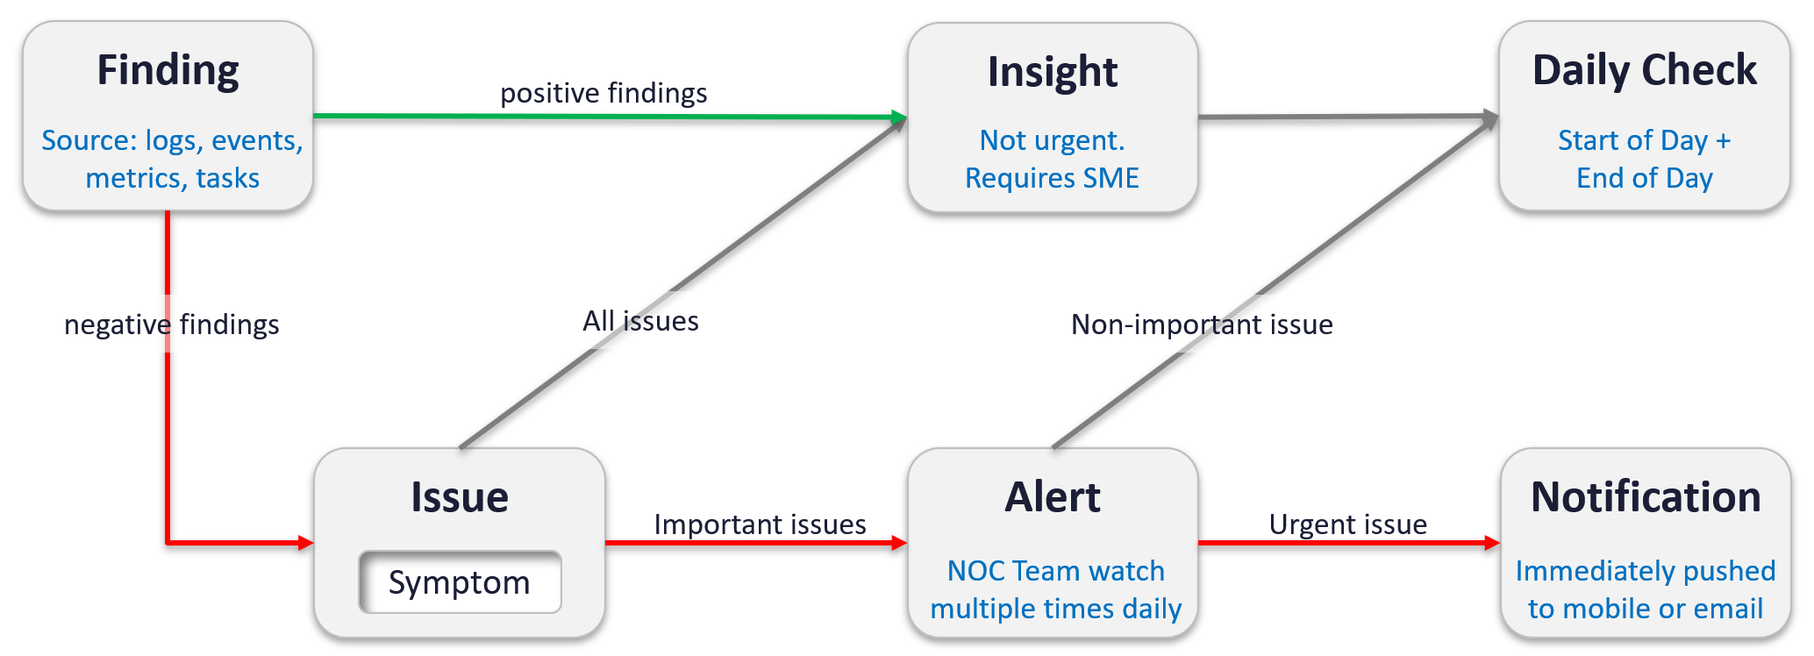
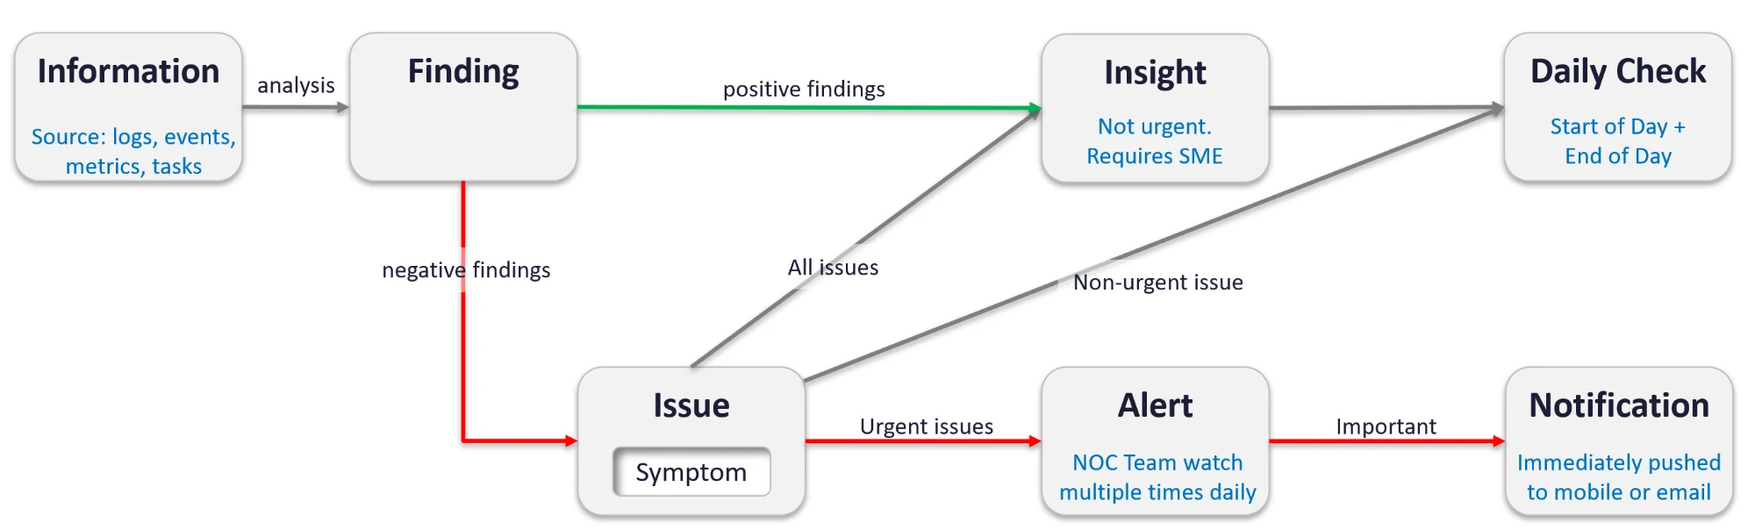
Apply Q103 and Q133; merge duplicate glossary rows
Q103: an alert is an urgent issue, only the important alert is pushed
to the admin's phone, and an issue is a negative finding with one or
more symptoms; the author's corrected diagram replaces the old one.
Q133: health checks run availability, performance, security, capacity,
with configuration as the drill-down under all four and no vSphere-only
fallback; triage becomes an alias of troubleshooting. The glossary had
seven terms twice; each now has one row, aliases in Also called, and the
harness reads those aliases too.

Claude-Session: https://claude.ai/code/session_01JZFwApUFw7444dpvawSydh

diff --git a/harness/retrieval.py b/harness/retrieval.py
@@ -49,6 +49,16 @@ def glossary_terms(docs):
     if not g:
         return out
     for head, text in g.sections:
+        if head.startswith('Defined terms'):
+            for line in text.split('\n'):
+                cells = [c.strip() for c in line.strip().strip('|').split('|')]
+                if len(cells) < 3 or set(cells[0]) <= set('-: ') or cells[0] == 'Term':
+                    continue
+                preferred = re.sub(r'\(.*?\)', '', cells[0]).strip()
+                for a in cells[2].split(','):
+                    a = re.sub(r'\(.*?\)', '', a).strip()
+                    if len(a) > 2 and a != '-':
+                        out.append((a, preferred))
         if head.startswith('Synonyms') or head.startswith('Words to avoid'):
             for line in text.split('\n'):
                 cells = [c.strip() for c in line.strip().strip('|').split('|')]

diff --git a/knowledge/glossary.md b/knowledge/glossary.md
@@ -10,15 +10,11 @@ What Agent E2 needs to read the user's words and answer in one consistent vocabu
 | VM pages | guest physical pages, guest physical memory | Pages in the VM address space. Vendor term kept for search. |
 | ESXi pages | machine pages, machine memory | Pages ESXi manages on DIMM, host cache or tiered NVMe. |
 | Guest OS sizing | VM rightsizing (inside the guest) | Sized from Guest OS counters. The external view is VM footprint. |
-| Usage Disparity | vCPU imbalance | Spread of usage across the vCPUs of one VM. |
-| Troubleshooting | diagnosis, diagnose, root cause analysis (the process) | The why, after an object fails a health check. |
-| Health check | what to monitor, monitoring checklist, verification, daily check | The what: is the object healthy, at risk, or wasteful. |
 
 ## Defined terms
 | Term | Meaning | Also called |
 |---|---|---|
 | Virtual motherboard | What a VM is: vCPU, memory, virtual disks and vNICs that run a Guest OS. The Guest OS is not part of it. | VM |
-| KPI | Key performance indicator; performance only. One metric for the performance of one object. `sp5-framework/performance/kpi-vs-sla` | - |
 | KAI, KCI | Key availability indicator, key compliance indicator. Not called KPI. | - |
 | SLI | SLA leading indicator: pass or fail every 5 minutes; the SLA is its mean over the calendar month. Not service level indicator. | - |
 | Security SLA | Preferred over compliance SLA, which is correct but narrower: security also covers activity, not only settings. | Compliance SLA |
@@ -27,7 +23,6 @@ What Agent E2 needs to read the user's words and answer in one consistent vocabu
 | Usable capacity | Total capacity minus HA, buffer and hypervisor overhead. A capacity term only. | - |
 | Value (pillar) | One of the five SP5 pillars. Keeps apart cost (what IT spends on infrastructure), price (what IT charges a tenant) and business value (what the investment returns). Formerly cost management. `sp5-framework/concepts/overview` | Cost and price |
 | Green zone | The change window: the agreed time when approved changes, deployments and patches may enter production. Downtime inside it is excluded from Operational Availability. `sp5-framework/concepts/sla-metrics` | Change window, maintenance window, authorized execution window |
-| Crown jewels | The critical business applications, strategic to the core business; each gets a KPI at the infrastructure layer. `sp5-framework/performance/business-application-kpi` | Mission-critical applications |
 | Triple See Method | The author's method for VCF: read contention, consumption and context metrics as one set before concluding. Not USE, RED or Golden Signals. `sp5-framework/concepts/triple-see-method` | Triple See |
 | Closed cluster | A cluster that accepts no new VM and no VM upsize, decided from Capacity Remaining, Performance (%) and Risk (%). `sp5-framework/capacity/health-check/can-cluster-take-more-vms` | Stop provisioning |
 | vSphere World | VCF Operations object above all vCenter Server instances. | - |
@@ -50,7 +45,7 @@ What Agent E2 needs to read the user's words and answer in one consistent vocabu
 | Other Wait | Wait not caused by idle or swap: disk IO, network IO, vMotion, snapshots. | VM Wait |
 | Net Run | VCF Operations metric: Run - Overlap. | - |
 | Contention (VCF Operations) | Overlap + Co-stop + Ready + Other Wait. Before July 2024: mapped to CPU Latency. | - |
-| Usage Disparity | Spread of usage across the vCPUs of one VM. | Imbalance vCPU Usage (avoid) |
+| Usage Disparity | Spread of usage across the vCPUs of one VM. | vCPU imbalance, Imbalance vCPU Usage (avoid) |
 | MKS, VMX, Helper | VM worlds charged to VM-level Used: console, VM management and emulation, IO helpers. | - |
 | Thread Utilization | ESXi Utilization (%) read per physical thread. Binary per moment. | Utilization (%) |
 | Core Utilization | 100% when 1 or 2 threads of a core run. | - |
@@ -59,8 +54,6 @@ What Agent E2 needs to read the user's words and answer in one consistent vocabu
 | ESXi CPU Imbalance | Running threads / running cores. | Imbalance Score |
 | Consumed CPU (%) | Host list column in vSphere Client. Maps to Usage (%). | - |
 | CPU Utilization for Resources | 17 legacy rescpu.* metrics. Avoid. | rescpu |
-| VM pages | Pages in the VM address space. Vendor term: guest physical pages. | - |
-| ESXi pages | Pages ESXi manages on DIMM, host cache or tiered NVMe. Vendor term: machine pages. | - |
 | Page-fault latency | VM memory Latency (%), esxtop %LAT_M. VCF Operations: VM Memory Contention. | Memory Latency |
 | Granted | VM pages with ESXi pages mapped. VM view. | - |
 | Entitlement (memory) | Granted + Overhead. | - |
@@ -74,7 +67,7 @@ What Agent E2 needs to read the user's words and answer in one consistent vocabu
 | Leading indicator, lagging indicator | Leading: underlying metric read in insights. Lagging: customer-facing metric used in alerts. | - |
 | Operational Availability (%) | Availability relative to the availability architecture. | - |
 | Actual Availability (%) | Availability as it happened. Usually lower than Operational Availability. | - |
-| Crown jewels | Mission-critical business applications: few VMs, essential to revenue, profit or image. | Mission-critical applications |
+| Crown jewels | The critical business applications, strategic to the core business: few VMs, essential to revenue, profit or image. Each gets a KPI at the infrastructure layer. `sp5-framework/performance/business-application-kpi` | Mission-critical applications |
 | Slow time | Time a VM spends above the Performance SLA threshold; the performance counterpart of downtime. `sp5-framework/concepts/sla-metrics` | - |
 | Finding | Result of troubleshooting or analysis from logs, events, metrics, tasks. Positive feeds insight; negative is an issue. | - |
 | Issue | A negative finding, identified by one or more symptoms. | - |
@@ -84,9 +77,9 @@ What Agent E2 needs to read the user's words and answer in one consistent vocabu
 | Primary metric, secondary metric | Primary: 0-100%, defines performance (the what). Secondary: explains the primary (the why). | - |
 | Framework | How IT operations are managed: policy, pillars, process, people, platform. The SP5 framework; ITIL and COBIT are other frameworks. `sp5-framework/concepts/overview` | - |
 | Model | How one pillar of one object is quantified into a number and a decision. Capacity model, availability model, security model. Example: Cluster Consumption and Cluster Risk decide, with Cluster Performance, whether a cluster is closed. `vsphere/object-types/cluster/models/cluster-consumption` | - |
-| KPI | A model of performance only: the P in KPI. One 0-100% score per object. VM, Guest OS, ESXi and Cluster Performance. `vsphere/object-types/esxi/kpis/esxi-performance` | Key Performance Indicator |
-| Health check | Check of one object, in the order present health, risk, efficiency. The what. A failed step opens a troubleshooting flow. `vsphere/object-types/cluster/health-check/cluster-health-check` | - |
-| Troubleshooting | Finding why an object failed a health check, and the fix. Always after the health check, never instead of it. A user complaint is a failed health check. `sp5-framework/concepts/monitoring-vs-troubleshooting` | - |
+| KPI | Key performance indicator: a model of performance only, the P in KPI. One 0-100% score per object: VM, Guest OS, ESXi and Cluster Performance. `sp5-framework/performance/kpi-vs-sla` | Key Performance Indicator |
+| Health check | Check of one object, in the order availability, performance, security, capacity, with configuration as the drill-down. The what: is the object healthy, at risk, or wasteful. A failed step opens a troubleshooting flow. `vsphere/object-types/cluster/health-check/cluster-health-check` | what to monitor, monitoring checklist, verification, daily check |
+| Troubleshooting | Finding why an object failed a health check, and the fix. Always after the health check, never instead of it. A user complaint is a failed health check. Each order of checks is a flow. `sp5-framework/concepts/monitoring-vs-troubleshooting` | diagnosis, diagnose, root cause analysis, triage |
 
 ## Confusable pairs
 Pairs that public text mixes up. Each row points to the file that holds the mechanism.
@@ -136,6 +129,7 @@ source:
   path: "n/a. Section 'Term distinctions' and the Physical CPU synonym from PART 3 - Counters.docx, The World of Metrics > Metrics Nuances > Complexity > Naming Complexity"
 corrections: []
 review_notes:
+  - "2026-11-09: duplicate rows merged, one row per term (Usage Disparity, VM pages, ESXi pages, KPI, Crown jewels, Health check, Troubleshooting); aliases in Also called; triage added as an alias of troubleshooting (author, Q133 c)."
   - "2026-11-08 (author decision): Framework, Model, KPI, Health check and Troubleshooting defined; diagnosis and what to monitor replaced. Confusable pair Health check (Kubernetes probe): Claude's knowledge."
   - "2026-11-07: Confusable pair Consistency vs compatibility check added from Part 1, Configuration Management. Proposal."
   - "2026-11-07: Defined terms Slow time to Primary metric and the pairs Monitoring vs troubleshooting, Inventory vs configuration, Security vs compliance, Short-term vs long-term capacity added from Part 1, Your Private Cloud (Service Level Agreement to SP5 Framework: Process). Proposals; author to confirm. Present and future health grouping: Q102."

diff --git a/project/author-questions.md b/project/author-questions.md
@@ -231,16 +231,6 @@ Each entry has:
 - Written as now: table and grouping image; the other image's details used as text only.
 - Answer:
 
-### Q103 · Part 1 > SP5 Framework > Basic Terminology · Alert: urgent or important; symptom
-- Files: [Alerts, symptoms and insights: why alert-driven operations stay reactive](https://github.com/e1-rahabok/agent-e2/blob/main/knowledge/sp5-framework/concepts/alerts-and-insights.md) (sections Symptom, alert, insight; Finding, issue, alert, notification). Related: Q089.
-- Search 1: "It’s an urgent Issue with Symptom crossing threshold"
-- Search 2: "An issue is identified by its 1 or more Symptom"
-- Image text (not searchable): "Important issues" (Issue → Alert), "Urgent issue" (Alert → Notification), "Non-important issue" (Alert → Daily Check).
-- Question:
-  - (a) The table defines an alert as an urgent issue; the diagram routes important issues to alerts, then urgent ones to notification and non-important ones to the daily check. Is an alert defined by urgency, by importance, or by a symptom crossing a threshold (either)?
-  - (b) Symptom: here part of an issue (an issue has 1 or more symptoms); in Observability, a minor non-urgent issue that becomes an alert if it persists. One definition?
-- Written as now: both, flagged.
-- Answer:
 
 ### Q105 · Part 1 > Monitor | Troubleshoot; SP5 Framework: Process · Logs in monitoring and the length of the daily check
 - Files: [Monitoring vs troubleshooting, root cause analysis and validating a log alert](https://github.com/e1-rahabok/agent-e2/blob/main/knowledge/sp5-framework/concepts/monitoring-vs-troubleshooting.md); [Proactive operations: dual track, daily cadence, NOC screens and the VM life cycle](https://github.com/e1-rahabok/agent-e2/blob/main/knowledge/sp5-framework/concepts/proactive-operations.md).
@@ -463,12 +453,6 @@ Each entry has:
 - Written as now: both, each in its own file; the closure flow says the pack automates steps 4 and 5.
 - Answer:
 
-### Q133 · Health check · Decisions still open from the 2026-11-08 review
-- Files: [KNOWLEDGE-ENGINEERING.md](https://github.com/e1-rahabok/agent-e2/blob/main/KNOWLEDGE-ENGINEERING.md) (section 10); the three health checks.
-- Search: not from the book.
-- Question: (a) Without VCF Operations (vCenter only), should a health check fall back to the raw counters of each KPI sub-metric? Answered (author, 2026-11-08): the question is invalid; there is no vCenter without VCF Operations. The fallback line was removed from the ESXi health check. (b) Order: answered by Q104 (2026-11-08): availability, performance, security, with configuration as the drill-down under each; every performance flow checks configuration. Still open: does risk (capacity, compliance) and efficiency follow, as in health-risk-efficiency? (c) Keep the word triage for the first troubleshooting step after a complaint (vm-slow-triage), or drop it? Answered (author, 2026-11-09): drop it; it is a flow. Renamed sp5-framework/performance/troubleshooting/vm-slow.
-- Written as now: (a) resolved, no fallback; (b) as stated; (c) triage kept.
-- Answer:
 
 ### Q134 · Part 3 > Metric Mastery > Triple See Method · Why not USE, RED, Golden Signals
 - Files: [Triple See Method](https://github.com/e1-rahabok/agent-e2/blob/main/knowledge/sp5-framework/concepts/triple-see-method.md) (section Why not USE, RED or Golden Signals).
@@ -583,6 +567,26 @@ Each entry has:
 - Answer:
 
 ## Resolved
+
+### Q133 · Health check · Decisions still open from the 2026-11-08 review
+- Files: [KNOWLEDGE-ENGINEERING.md](https://github.com/e1-rahabok/agent-e2/blob/main/KNOWLEDGE-ENGINEERING.md) (section 10); the three health checks.
+- Search: not from the book.
+- Question: (a) Without VCF Operations (vCenter only), should a health check fall back to the raw counters of each KPI sub-metric? Answered (author, 2026-11-08): the question is invalid; there is no vCenter without VCF Operations. The fallback line was removed from the ESXi health check. (b) Order: answered by Q104 (2026-11-08): availability, performance, security, with configuration as the drill-down under each; every performance flow checks configuration. Still open: does risk (capacity, compliance) and efficiency follow, as in health-risk-efficiency? (c) Keep the word triage for the first troubleshooting step after a complaint (vm-slow-triage), or drop it? Answered (author, 2026-11-09): drop it; it is a flow. Renamed sp5-framework/performance/troubleshooting/vm-slow.
+- Written as now: (a) resolved, no fallback; (b) as stated; (c) triage kept.
+- Answer: (a) The SP5 health check requires VCF Operations, not vSphere alone; other health check tools are outside the scope of Agent E2, so the fallback is invalid. (b) Health check flow: availability, performance, security, capacity; configuration is checked during the check, as a setting can affect all four. (c) Drop triage: one English word per purpose; synonyms are kept in knowledge/glossary.md.
+- Applied 2026-11-09: the three health checks, the template and KNOWLEDGE-ENGINEERING.md sections 5 and 10; glossary (triage as an alias of troubleshooting, duplicate rows merged); vm-slow-triage renamed vm-slow.
+
+### Q103 · Part 1 > SP5 Framework > Basic Terminology · Alert: urgent or important; symptom
+- Files: [Alerts, symptoms and insights: why alert-driven operations stay reactive](https://github.com/e1-rahabok/agent-e2/blob/main/knowledge/sp5-framework/concepts/alerts-and-insights.md) (sections Symptom, alert, insight; Finding, issue, alert, notification). Related: Q089.
+- Search 1: "It’s an urgent Issue with Symptom crossing threshold"
+- Search 2: "An issue is identified by its 1 or more Symptom"
+- Image text (not searchable): "Important issues" (Issue → Alert), "Urgent issue" (Alert → Notification), "Non-important issue" (Alert → Daily Check).
+- Question:
+  - (a) The table defines an alert as an urgent issue; the diagram routes important issues to alerts, then urgent ones to notification and non-important ones to the daily check. Is an alert defined by urgency, by importance, or by a symptom crossing a threshold (either)?
+  - (b) Symptom: here part of an issue (an issue has 1 or more symptoms); in Observability, a minor non-urgent issue that becomes an alert if it persists. One definition?
+- Written as now: both, flagged.
+- Answer: (a) See the corrected diagram: alert = urgent; only the important one is pushed to the VMware admin's mobile phone. (b) An issue is a negative finding: something found bad. It can have 1 or more symptoms; untreated, they can degenerate and become urgent.
+- Applied 2026-11-09: sp5-framework/alerts/alerts-and-insights (section Finding, issue, alert, notification; diagram replaced).
 
 ### Q092 · Part 1 > Begin with The End in Mind > The Crown Jewel · Health across tiers
 - Files: [Purpose-driven architecture: Day 2 first, business context, automation last, two sides of VCF](https://github.com/e1-rahabok/agent-e2/blob/main/knowledge/sp5-framework/concepts/purpose-driven-architecture.md) (section Health of an application tier).

diff --git a/knowledge/sp5-framework/alerts/alerts-and-insights.md b/knowledge/sp5-framework/alerts/alerts-and-insights.md
@@ -38,13 +38,14 @@
 ## Finding, issue, alert, notification
 - Finding: the result of troubleshooting or analysis, from logs, events, metrics and tasks. Good or bad. The sources report the negative, so an empty result is usually a good day (example: no login to a confidential cluster).
 - Positive findings feed insight. Deriving an insight from findings takes someone who knows the technology and the environment.
-- Negative findings are issues. An issue is identified by one or more symptoms; no symptom, no issue.
+- Negative findings are issues. An issue is a negative finding: something was found to be bad. It has one or more symptoms; no symptom, no issue.
+- Symptoms left untreated can degenerate over time and become urgent: that is when an issue becomes an alert.
 - Issue types: availability (hard failure, soft failure), configuration (drift, insecure), performance, capacity, security.
 - Every issue also feeds insight, which is read in the daily check at the start and end of the day. Insight is not urgent and needs a subject matter expert.
-- Alert: an issue whose symptom crossed a threshold. The NOC team watches alerts several times a day.
-- Notification: the way VCF Operations pushes an insight or alert to a person: email, messages, on screen at login. Only an urgent alert is pushed to mobile or email at once; a non-urgent one waits for the daily check.
+- Alert: an urgent issue. The NOC team watches alerts several times a day. A non-urgent issue is not an alert: it goes to the daily check.
+- Notification: the way VCF Operations pushes an alert to a person at once: mobile or email. Only an important alert is pushed (red: urgent and important). An alert that is urgent but not important (orange) stays in the NOC's alert list.
 - Admins want urgent issues fast; important but not urgent issues are analysed after the time-sensitive ones.
-![Finding (sources: logs, events, metrics, tasks): positive findings → Insight (not urgent, requires SME) → Daily Check (start of day + end of day). Negative findings → Issue (symptom) → all issues → Insight; important issues → Alert (NOC team watch multiple times daily) → urgent issue → Notification (pushed to mobile or email); non-important issue → Daily Check](images/finding-issue-alert-insight-notification-flow-diagram.png)
+![Information (logs, events, metrics, tasks) → analysis → Finding. Positive findings → Insight (not urgent, requires SME) → Daily Check (start of day + end of day). Negative findings → Issue (with its symptoms). All issues → Insight; non-urgent issues → Daily Check; urgent issues → Alert (NOC team watch multiple times daily) → important → Notification (immediately pushed to mobile or email)](images/finding-issue-alert-insight-notification-flow-diagram.png)
 - Monitoring and troubleshooting with these terms: `sp5-framework/concepts/monitoring-vs-troubleshooting`.
 
 ## Alert vs insight
@@ -184,7 +185,7 @@ review_notes:
 - 'Section ''Prevention window'': the image gives a threshold for each example. Not copied into the text or the threshold catalog until the author answers Q088: SLA VM CPU Ready above 5% vs the SLI value 2.5% (vsphere/object-types/cluster/kpis/cluster-sla-sli); Co-stop 2.5% vs below 1% in a high-performing environment (co-stop file); VMkernel queue 1 ms vs KAVG 0.5 ms; cluster averages as SLA alerts vs SLAs measured on each paying VM.'
 - 'Section ''Prevention window'', last bullet before the image: instance-rule example added by Claude.'
 - 'Section ''Criticality'': the book''s alert vs insight table calls alerts hopefully not important and insights important; its colour table calls red urgent and important. Q089. Whether KPI colour bands carry the same response times: Q089.'
-- 'Section ''Finding, issue, alert, notification'': the terminology table defines an alert as an urgent issue; the diagram sends important issues to alerts and urgent alerts to notification. Symptom here is part of an issue; in section Symptom, alert, insight it is a minor issue. Q103.'
+- 'Section ''Finding, issue, alert, notification'': author answer Q103 (2026-11-09): alert = urgent issue; only the important alert is pushed to the admin''s phone; an issue is a negative finding with one or more symptoms, which degenerate and become urgent if untreated. The diagram was replaced with the author''s corrected version.'
 - 'Not copied: the iceberg picture (decorative) and the colour legend (red: review today, the sooner the better; orange: review today; yellow: review tomorrow, could be a false positive; green: great), whose content is in the text.'
 status: draft
 ```

diff --git a/KNOWLEDGE-ENGINEERING.md b/KNOWLEDGE-ENGINEERING.md
@@ -228,7 +228,7 @@ knowledge/                           # what the model reads (indexed)
   - pillars that cut across products (vSphere, vSAN, NSX, Guest OS): `sp5-framework/<pillar>/`; content across pillars: `sp5-framework/concepts/`, so the framework reads as one unit (author, 2026-11-08).
 - Placement rules, so a fact lives in one place:
   - A raw metric about one technology goes in `technology/`, even when it belongs to one object. VM CPU Ready: `vsphere/technology/cpu/metrics/virtual-motherboard/`.
-  - `object-types/` holds what combines technologies for one object: vMotion, DRS, admission control, cluster operations. Each object folder gets a health check (`health-check/<object>-health-check`): numbered steps in the order of `sp5-framework/concepts/health-risk-efficiency`, starting from the object's KPI and models, each step linking the troubleshooting flow to open when it fails.
+  - `object-types/` holds what combines technologies for one object: vMotion, DRS, admission control, cluster operations. Each object folder gets a health check (`health-check/<object>-health-check`): numbered steps in the order availability, performance, security, capacity, with configuration as the drill-down (section 10), starting from the object's KPI and models, each step linking the troubleshooting flow to open when it fails.
   - VCF Operations is an observability tool, not a peer of vSphere, vSAN, NSX or the Guest OS: it has nothing to say without a system to manage (author, 2026-11-08). Content about a managed object lives with that object, even when VCF Operations computes it:
     - a derived metric of one technology: `vsphere/technology/<tech>/metrics/<object>/` (VM CPU Contention, VM Disk Space);
     - a KPI or model of one object: `vsphere/object-types/<object>/kpis/` or `models/` (VM Performance, Cluster Risk, Close for Business);
@@ -354,7 +354,8 @@ threshold = (metric, object, instance reading, sample interval, time window) -> 
   - Troubleshooting: the why. Done only after an object fails a health check; a user complaint counts as a failed health check. Troubleshooting is part of the health check, always after it.
   - Not used: diagnosis (troubleshooting), what to monitor (health check), verification (health check).
 - A health check step names the KPI or model, its band, and the flow to open when it fails: `→ <troubleshooting id>`.
-- Order (author, Q104): availability, performance, security; configuration is the drill-down under each, because it can cause all three; known bugs count as configuration. Contention is part of performance. Every performance troubleshooting flow checks configuration.
+- Order (author, Q104 and Q133, 2026-11-09): availability, performance, security, capacity; configuration is the drill-down under each of the four, because a setting can affect all of them; known bugs count as configuration. Efficiency (waste) is part of capacity. Contention is part of performance. Every performance troubleshooting flow checks configuration.
+- The health check reads VCF Operations KPIs and models. It does not fall back to vSphere alone: VCF always includes VCF Operations, and other health check tools are outside the scope of Agent E2 (author, Q133).
 - Reactive: after an alert, an incident (outage, breach) or a complaint. Proactive: insight, typically anomaly detection, read with business context.
 - One flow per file. Template: `project/templates/health-check.md` or `project/templates/troubleshooting.md`. Order: symptom, Mermaid flowchart, numbered steps (`## Checks, in order`), why this order, how to read the result, traps, metadata.
 - The numbered steps are what the LLM follows. The Mermaid chart is a second, text-readable view; GitHub renders it for review.

diff --git a/project/plan.md b/project/plan.md
@@ -28,6 +28,7 @@ Why the mission is possible: `MISSION.md`. Last review: [project/review-2026-11-
 - Earlier list: screen library and screenshot read-back (1.1); data files (1.2); alert definitions (1.2): Iwan Rahabok first overhauls the shipped alerts in VCF Operations ([VMW-Alerts-Overhaul](https://github.com/e1-rahabok/VMW-Alerts-Overhaul): 1,193 alert definitions, 1,951 symptoms; analysis not finished), then the definitions become a YAML catalog with a harness lookup tool, measured on questions that need an exact definition; read-only VCF Operations connection; vSAN, NSX, Kubernetes, Linux content.
 
 ## Decisions (latest first)
+- 2026-11-09, author, Q103 and Q133: alert = urgent issue; only the important alert is pushed to the admin's phone; an issue is a negative finding with one or more symptoms that become urgent if untreated (alerts-and-insights, diagram replaced). Health check order: availability, performance, security, capacity; configuration is the drill-down under all four; efficiency is part of capacity; no vSphere-only fallback. Triage is an alias of troubleshooting in the glossary. Glossary: 7 duplicate rows merged; the harness reads aliases from Defined terms too (59 pairs); query expansion re-measured with them: no gain (search 62% to 61%, context 77%), stays off. Retrieval check unchanged: 77%, 58 of 91.
 - 2026-11-09, author: VCF Operations is not a vSphere tool. [20-second peak metrics vs 5-minute averages](https://github.com/e1-rahabok/agent-e2/blob/main/knowledge/vcf-operations/features/peak-20-second-metrics.md) moved to `vcf-operations/features/`; `vsphere/tools/` keeps esxtop and the vSphere Client (reverses the 2026-11-08 placement). The word triage is dropped: `vm-slow-triage` renamed [Users say the VM is slow](https://github.com/e1-rahabok/agent-e2/blob/main/knowledge/sp5-framework/performance/troubleshooting/vm-slow.md) (Q133 c). Q092 applied: new [business application KPI](https://github.com/e1-rahabok/agent-e2/blob/main/knowledge/sp5-framework/performance/business-application-kpi.md) (tier average, worst tier across tiers, active node only, not yet in VCF Operations); crown jewels moved there from purpose-driven-architecture; glossary term Crown jewels; term-map row. Retrieval check unchanged: 77%, 58 of 91.
 - 2026-11-09: benchmark web search through Vercel AI Gateway (Perplexity search, vendor sites only), so no SearXNG instance is needed for the benchmark. Checked live: a known-issue question returned 5 Broadcom KB articles and the harness read 2 of them.
 - 2026-11-09, author: web search backend is SearXNG, unless a customer's security team blocks it. Search returns vendor documentation only; fallbacks in ARCHITECTURE.md, section 5 (fetch from vendor domains only; no outbound access and the user pastes the text).

diff --git a/knowledge/vsphere/object-types/vm/health-check/vm-health-check.md b/knowledge/vsphere/object-types/vm/health-check/vm-health-check.md
@@ -29,7 +29,7 @@ flowchart TD
 - The VM is the virtual motherboard. Run queue, page-outs and disk queue inside the guest belong to the Guest OS layer. See `guest-os/system/metrics/guest-os-performance`.
 
 ## Checks, in order
-Order of `sp5-framework/concepts/health-risk-efficiency`: present health (availability, performance, security), then risk (capacity, configuration, compliance), then efficiency.
+Order (author, Q104 and Q133, 2026-11-09): availability, performance, security, capacity. Configuration is checked as the drill-down under each of the four, because a setting can affect all of them. Efficiency (waste) is read as part of capacity. Framework view: `sp5-framework/concepts/health-risk-efficiency`.
 1. Availability (VirtualMachine). Future, after 1.0: VM down, restarted by HA, unresponsive; mostly from logs and events. State what was not checked. → step 2.
 2. Performance: VM Performance (%) (VirtualMachine). Combines the VM contention metrics into one KPI with colour bands. Start here at scale (`vsphere/object-types/vm/kpis/vm-performance`). Green → step 7. Yellow or worse → step 3, and read only the resources whose sub-metric fails.
 3. CPU contention (VirtualMachine). Ready and Co-stop are the main counters; Overlap and Other Wait usually read much lower (`vsphere/technology/cpu/metrics/comparisons/vm-contention-metrics`). Read Ready against Run: 2% Ready on 10% Run is bad; 2% Ready on 98% Run is fine (`vsphere/technology/cpu/metrics/virtual-motherboard/ready`). Co-stop: `vsphere/technology/cpu/metrics/virtual-motherboard/co-stop`. Contention (VCF Operations) includes limit time (`vsphere/technology/cpu/metrics/virtual-motherboard/contention`). Latency includes Hyper-Threading and frequency effects: not a pure wait (`vsphere/technology/cpu/metrics/virtual-motherboard/latency`). High → `vsphere/technology/cpu/troubleshooting/vm-cpu-contention-high`. → step 4.

diff --git a/knowledge/vsphere/object-types/cluster/health-check/cluster-health-check.md b/knowledge/vsphere/object-types/cluster/health-check/cluster-health-check.md
@@ -27,7 +27,7 @@ flowchart TD
 - One KPI and two models: Cluster Performance (KPI), Cluster Consumption (capacity model), Cluster Risk (risk model). Read them separately.
 
 ## Checks, in order
-Order of `sp5-framework/concepts/health-risk-efficiency`: present health (availability, performance, security), then risk (capacity, configuration, compliance), then efficiency.
+Order (author, Q104 and Q133, 2026-11-09): availability, performance, security, capacity. Configuration is checked as the drill-down under each of the four, because a setting can affect all of them. Efficiency (waste) is read as part of capacity. Framework view: `sp5-framework/concepts/health-risk-efficiency`.
 1. Availability (ClusterComputeResource). Cluster state green or yellow or red, and HA failover capacity met (`vsphere/object-types/cluster/concepts/admission-control-and-cluster-state`). Cluster and ESXi availability: `vsphere/object-types/cluster/metrics/comparisons/availability`. Flows for an availability failure (host down, HA did not restart VMs) are future, after 1.0: state what failed and stop. Otherwise → step 2.
 2. Performance: Cluster Performance (%) (ClusterComputeResource). Depth from the worst VM, breadth from the 90th percentile, aggregated directly from VMs (`vsphere/object-types/cluster/kpis/cluster-performance`). Green → step 3. Yellow or worse → `vsphere/object-types/cluster/troubleshooting/cluster-vm-contention`; VMs short of CPU or memory in a DRS cluster → `vsphere/object-types/cluster/troubleshooting/vm-insufficient-resources-in-drs-cluster`. Then → step 3.
 3. Service level (ClusterComputeResource). SLA and SLI, 30-day and lagging (`vsphere/object-types/cluster/kpis/cluster-sla-sli`). A breach is history: it confirms step 2, it does not replace it. → step 4.

diff --git a/knowledge/vsphere/object-types/esxi/health-check/esxi-health-check.md b/knowledge/vsphere/object-types/esxi/health-check/esxi-health-check.md
@@ -26,7 +26,7 @@ flowchart TD
 - Host utilization is capacity, not performance. A host can run at high utilization with no VM waiting, and VMs can wait on a lightly used host.
 
 ## Checks, in order
-Order of `sp5-framework/concepts/health-risk-efficiency`: present health (availability, performance, security), then risk (capacity, configuration, compliance), then efficiency.
+Order (author, Q104 and Q133, 2026-11-09): availability, performance, security, capacity. Configuration is checked as the drill-down under each of the four, because a setting can affect all of them. Efficiency (waste) is read as part of capacity. Framework view: `sp5-framework/concepts/health-risk-efficiency`.
 1. Availability (HostSystem). Future, after 1.0: host not responding, disconnected, PSOD and soft errors come mostly from logs and events. State what was not checked. → step 2.
 2. Performance: ESXi Performance (%) (HostSystem). One score from the 8 VM contention sub-metrics (worst VM and 90th percentile of Ready, Co-stop, memory latency, disk latency) and the host's bad network packets. See `vsphere/object-types/esxi/kpis/esxi-performance`. Green → step 4. Yellow or worse → step 3.
 3. Which sub-metric fails (HostSystem, VirtualMachine). Open the sub-metric that drives the score down:

diff --git a/project/templates/health-check.md b/project/templates/health-check.md
@@ -12,7 +12,7 @@ flowchart TD
 ```
 
 ## Checks, in order
-Order of `sp5-framework/concepts/health-risk-efficiency`: present health (availability, performance, security), risk (capacity, configuration, compliance), efficiency.
+Order (author, Q104 and Q133, 2026-11-09): availability, performance, security, capacity. Configuration is checked as the drill-down under each of the four, because a setting can affect all of them. Efficiency (waste) is read as part of capacity.
 1. Availability. <What is checked, or: future, after 1.0.> → step 2.
 2. Performance: <KPI> (<object>). Green → step 3. Otherwise → `<troubleshooting id>`.
 3. Capacity: <model> (<object>). <Band, with source> → step 4.
